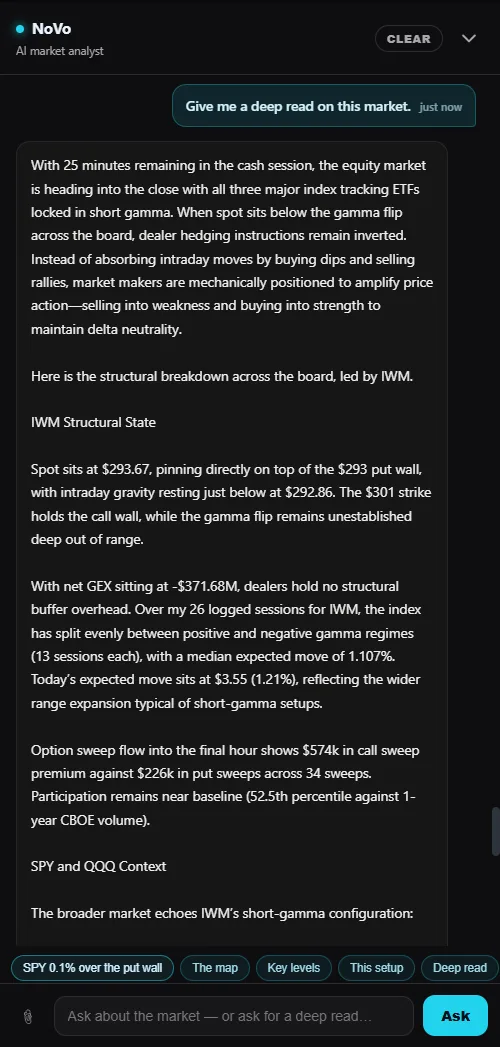
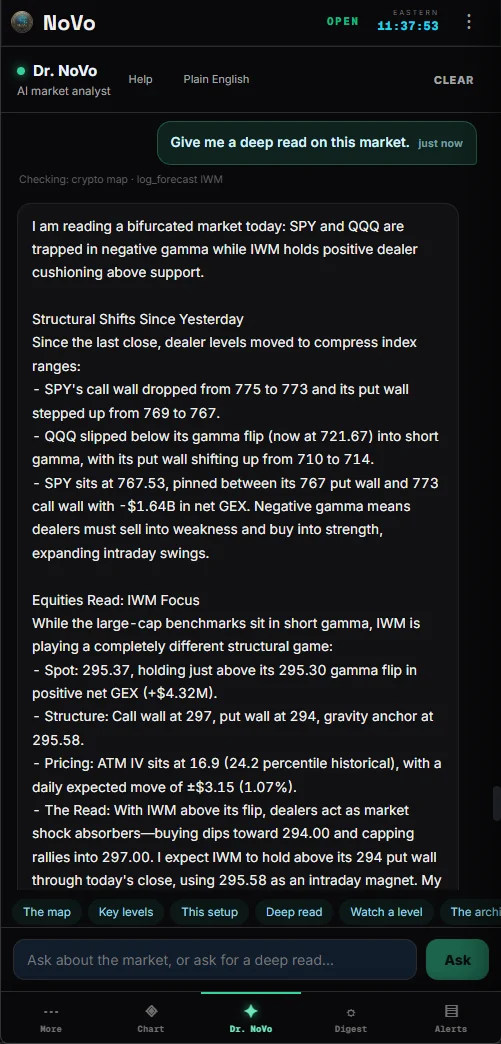
/ai: the four chat cards are real conversations again, one per dashboard
Jake: "use the NoVo chat shots you have in this folder there is atleast 3 or 4 from
each dashboard ... NoVo chat shots for the /ai page."

The folder holds thirty captures; four of them are Dr. NoVo conversations, which is
exactly the number of cards the fan has. One from each dashboard, near enough:

  The calendar, against consensus   analyst  - what is on the week's calendar, and
                                              how jobless claims, nonfarm productivity
                                              and the ISM sub-components landed
                                              against what was expected
  A deep read, on demand            trader   - a bifurcated tape called in plain
                                              English, the walls that moved since
                                              yesterday, an IWM read to its flip
  The crypto map, read              crypto   - where SOL goes by Friday, the range
                                              between its walls, and the crypto base
                                              rate with its sample
  One coin, all the way down        crypto   - Bitcoin's short-gamma compression,
                                              funding by venue, DVOL, skew, the
                                              liquidation tape, the block flow

THE CAPTION HAD TO MOVE WITH THE PICTURE. Card one was captioned "The wires, cited"
[…]

diff --git a/public/ai.html b/public/ai.html
@@ -698,7 +698,7 @@ height="0" width="0" style="display:none;visibility:hidden"></iframe></noscript>
     <div class="section-label">Not a mockup &mdash; the actual chat</div>
     <h2 class="section-title">Four real conversations, both maps.</h2>
     <p class="section-sub" style="max-width:640px;">The wires with the sources named, a desk-grade deep read into the close, the crypto map read on demand, and one coin taken all the way down &mdash; with his own logged history behind every rate he quotes.</p>
-    <div class="aichat-fan"><figure class="aichat-card aichat-1" tabindex="0"><figcaption style="color:#22d3ee;">The wires, cited</figcaption><img src="/screenshots/ai-chat-wires.webp?v=1" width="498" height="1044" alt="NoVo answering &ldquo;What are the wires saying today?&rdquo; &mdash; the day&rsquo;s headlines read against the live map, closing on the actual dealer positioning, with &ldquo;Checked: headlines &middot; SPY&rdquo; and every source listed under the answer" loading="lazy" decoding="async"></figure><figure class="aichat-card aichat-2" tabindex="0"><figcaption style="color:#22d3ee;">A deep read, on demand</figcaption><img src="/screenshots/ai-chat-deep-read.webp?v=1" width="500" height="1047" alt="NoVo answering &ldquo;Give me a deep read on this market&rdquo; &mdash; a full structural report into the close: the short-gamma regime across all three ETFs, IWM&rsquo;s dealer state with net GEX and walls, and base rates quoted from his own logged sessions with sample sizes" loading="lazy" decoding="async"></figure><figure class="aichat-card aichat-3" tabindex="0"><figcaption style="color:#a78bfa;">The crypto map, read</figcaption><img src="/screenshots/ai-chat-crypto-map.webp?v=1" width="498" height="1044" alt="NoVo answering &ldquo;Read this crypto dealer map right now&rdquo; &mdash; the XRP on-screen read with net gamma, the call and put walls and the expiry clock, then cross-surface leverage: 24-hour liquidations by side and the hot quadrant moves across the mid-caps" loading="lazy" decoding="async"></figure><figure class="aichat-card aichat-4" tabindex="0"><figcaption style="color:#a78bfa;">One coin, all the way down</figcaption><img src="/screenshots/ai-chat-crypto-coin.webp?v=1" width="498" height="1043" alt="NoVo giving a deep read on XRP &mdash; the dealer and liquidity structure with net GEX ranked against his own logged history, gamma flip, walls, max pain, and a drawn level diagram showing spot pinned between the put wall and the call wall" loading="lazy" decoding="async"></figure></div>
+    <div class="aichat-fan"><figure class="aichat-card aichat-1" tabindex="0"><figcaption style="color:#22d3ee;">The calendar, against consensus</figcaption><img src="/screenshots/ai-chat-calendar.webp?v=1" width="501" height="1047" alt="Dr. NoVo answering what is on the week&rsquo;s calendar and how the last prints landed against consensus &mdash; jobless claims, nonfarm productivity and the ISM sub-components, each set beside what was expected" loading="lazy" decoding="async"></figure><figure class="aichat-card aichat-2" tabindex="0"><figcaption style="color:#22d3ee;">A deep read, on demand</figcaption><img src="/screenshots/ai-chat-deep-read.webp?v=2" width="501" height="1044" alt="Dr. NoVo answering &ldquo;give me a deep read on this market&rdquo; &mdash; a bifurcated tape called in plain English, the walls that moved since yesterday, and an IWM read down to its flip, gravity, ATM IV and expected move" loading="lazy" decoding="async"></figure><figure class="aichat-card aichat-3" tabindex="0"><figcaption style="color:#a78bfa;">The crypto map, read</figcaption><img src="/screenshots/ai-chat-crypto-map.webp?v=2" width="501" height="1047" alt="Dr. NoVo answering where SOL goes by Friday &mdash; the range between its put and call walls, the flip zone beneath it, the crypto base rate for setups like it with the sample behind it, and leverage positioning read venue by venue" loading="lazy" decoding="async"></figure><figure class="aichat-card aichat-4" tabindex="0"><figcaption style="color:#a78bfa;">One coin, all the way down</figcaption><img src="/screenshots/ai-chat-crypto-coin.webp?v=2" width="501" height="1047" alt="Dr. NoVo giving a deep read on Bitcoin &mdash; the short-gamma compression between the put wall and the flip, funding across venues, DVOL and skew, the 24-hour liquidation tape and the block flow sitting overhead" loading="lazy" decoding="async"></figure></div>
   </div>
 </section>
 <script>(function(){var c=document.querySelectorAll(".aichat-card");c.forEach(function(el){el.addEventListener("click",function(){c.forEach(function(x){x.classList.remove("front");});el.classList.add("front");});});})();</script>
